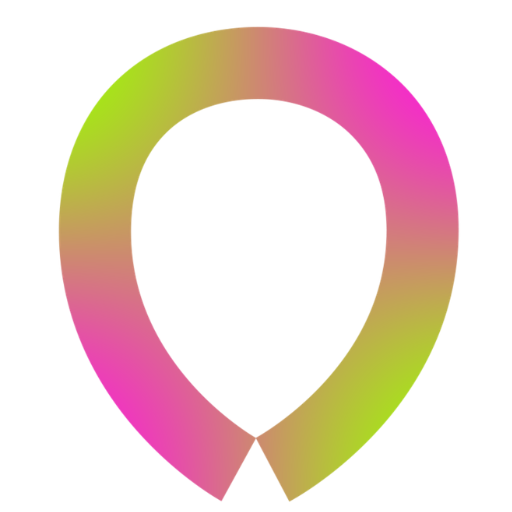
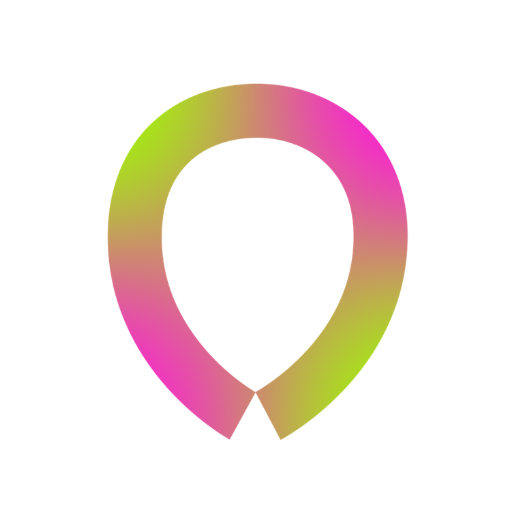
Att

diff --git a/src/App.tsx b/src/App.tsx
@@ -25,6 +25,7 @@ import { EstatisticasPanel } from './components/EstatisticasPanel'
 import { InstallPrompt } from './components/InstallPrompt'
 import { PerfilPublicoModal } from './components/PerfilPublicoModal'
 import { CadastroLocalModerador } from './components/CadastroLocalModerador'
+import { EditarLocalModal } from './components/EditarLocalModal'
 import { useLotacao } from './hooks/useLotacao'
 import { EventosManager } from './components/EventosManager'
 import { AnunciosManager } from './components/AnunciosManager'
@@ -33,7 +34,7 @@ import { LoadingScreen } from './components/LoadingScreen'
 import { PoliticasModal, politicasJaAceitas } from './components/PoliticasModal'
 import { AdBanner } from './components/AdBanner'
 import { NovaSenhaScreen } from './components/NovaSenhaScreen'
-import { Menu, Bell, MapPin, Plus, Camera, Users, X, Flag, Search, Navigation, UserPlus, Calendar, Flame } from 'lucide-react'
+import { Menu, Bell, MapPin, Plus, Camera, Users, X, Flag, Search, Navigation, UserPlus, Calendar, Flame, Pencil } from 'lucide-react'
 import logo from './assets/logo.png'
 
 import { Swiper, SwiperSlide } from 'swiper/react'
@@ -60,6 +61,7 @@ export default function App() {
   const { checkins, resumoPorLocal, meuVotoPorLocal, votar } = useLotacao()
   const [pulsoParaConvidar, setPulsoParaConvidar] = useState<{ id: number; texto: string; lat: number | null; lng: number | null } | null>(null)
   const [localParaEventos, setLocalParaEventos] = useState<{ id: number; nome: string } | null>(null)
+  const [localParaEditar, setLocalParaEditar] = useState<{ id: number; nome_local: string; texto: string; lat: number; lng: number; endereco: string | null } | null>(null)
   const [mostrarCalor, setMostrarCalor] = useState(false)
   const [pulsoParaDenunciar, setPulsoParaDenunciar] = useState<number | null>(null)
   const [perfilPublicoAlvo, setPerfilPublicoAlvo] = useState<string | null>(null)
@@ -94,7 +96,7 @@ export default function App() {
   const [isAmigosOpen, setIsAmigosOpen] = useState(false)
 
   const [filterActive, setFilterActive] = useState('TODOS')
-  const [abaDrawer, setAbaDrawer] = useState<'atividades' | 'onde_ir'>('atividades')
+  const [abaDrawer, setAbaDrawer] = useState<'atividades' | 'onde_ir' | 'eventos'>('atividades')
   const [termoBusca, setTermoBusca] = useState('')
 
   const [isFormOpen, setIsFormOpen] = useState(false)
@@ -487,21 +489,29 @@ export default function App() {
             >
               Onde Ir
             </button>
+            <button
+              onClick={() => setAbaDrawer('eventos')}
+              className={`flex-1 text-[10px] font-mono uppercase tracking-widest py-2.5 ${abaDrawer === 'eventos' ? 'bg-accent text-background' : 'text-accent/50'}`}
+            >
+              Eventos
+            </button>
           </div>
 
-          <div className="px-4 py-2 border-b border-borderRaw/10 flex-shrink-0 relative">
-            <Search size={13} className="absolute left-7 top-1/2 -translate-y-1/2 text-accent/30" />
-            <input
-              type="text"
-              value={termoBusca}
-              onChange={(e) => setTermoBusca(e.target.value)}
-              placeholder={abaDrawer === 'onde_ir' ? 'Buscar local...' : 'Buscar atividade...'}
-              className="w-full bg-background/60 border border-borderRaw rounded-lg py-1.5 pl-7 pr-2 text-[10px] font-mono"
-            />
-          </div>
+          {abaDrawer !== 'eventos' && (
+            <div className="px-4 py-2 border-b border-borderRaw/10 flex-shrink-0 relative">
+              <Search size={13} className="absolute left-7 top-1/2 -translate-y-1/2 text-accent/30" />
+              <input
+                type="text"
+                value={termoBusca}
+                onChange={(e) => setTermoBusca(e.target.value)}
+                placeholder={abaDrawer === 'onde_ir' ? 'Buscar local...' : 'Buscar atividade...'}
+                className="w-full bg-background/60 border border-borderRaw rounded-lg py-1.5 pl-7 pr-2 text-[10px] font-mono"
+              />
+            </div>
+          )}
 
           <div className="p-4 space-y-5 flex-1 overflow-y-auto">
-            {listaAtual.length === 0 && (
+            {abaDrawer !== 'eventos' && listaAtual.length === 0 && (
               <p className="text-[10px] text-accent/30 text-center pt-4">
                 {termoBusca.trim()
                   ? 'Nenhum resultado encontrado.'
@@ -590,6 +600,15 @@ export default function App() {
                   </button>
                 )}
 
+                {isAdmin && (
+                  <button
+                    onClick={() => setLocalParaEditar({ id: relato.id, nome_local: relato.nome_local, texto: relato.texto, lat: relato.lat, lng: relato.lng, endereco: relato.endereco })}
+                    className="text-[9px] font-mono text-accent/40 hover:text-accent flex items-center gap-1 mt-1"
+                  >
+                    <Pencil size={11} /> Editar local
+                  </button>
+                )}
+
                 {isAdmin && <button onClick={() => deletarRelato(relato.id)} className="text-[9px] text-red-500">[DELETAR]</button>}
               </div>
             ))}
@@ -639,9 +658,62 @@ export default function App() {
                 {isAdmin && <button onClick={() => deletarRelato(relato.id)} className="text-[9px] text-red-500 ml-2">[DELETAR]</button>}
               </div>
             ))}
+
+            {abaDrawer === 'eventos' && (
+              <>
+                <button
+                  onClick={() => (usuarioLogado ? setIsEventoModalOpen(true) : setIsLoginOpen(true))}
+                  className="w-full flex items-center justify-center gap-2 text-[10px] font-mono uppercase tracking-widest py-2.5 rounded-lg bg-accent text-background font-bold"
+                >
+                  <Plus size={14} /> Criar evento
+                </button>
+
+                {eventosGerais.length === 0 && (
+                  <p className="text-[10px] text-accent/30 text-center pt-4">Nenhum evento marcado ainda. Seja o primeiro a divulgar um!</p>
+                )}
+
+                {eventosGerais.map((evento) => (
+                  <div key={evento.id} className="rounded-xl border border-borderRaw/20 bg-background/40 p-3 space-y-1.5">
+                    {evento.image_url && (
+                      <img src={evento.image_url} alt="" className="w-full max-h-40 object-cover rounded-lg" />
+                    )}
+                    <div className="flex items-start justify-between gap-2">
+                      <div>
+                        <span className="text-[8px] font-mono text-accent/40 uppercase tracking-widest">{evento.categoria}</span>
+                        <h2 className="text-xs font-mono font-bold">{evento.titulo}</h2>
+                        <span className="text-[10px] text-accent/60">
+                          {new Date(evento.data_hora).toLocaleString('pt-BR', { day: '2-digit', month: '2-digit', hour: '2-digit', minute: '2-digit' })}
+                        </span>
+                      </div>
+                      <div className="flex items-center gap-2 flex-shrink-0">
+                        <button onClick={() => irParaNoMapa(evento.lat, evento.lng)} className="text-accent/50 hover:text-accent">
+                          <MapPin size={14} />
+                        </button>
+                        {(isAdmin || perfil?.id === evento.user_id) && (
+                          <button onClick={() => removerEvento(evento.id)} className="text-accent/40 hover:text-red-500 text-[9px]">[DEL]</button>
+                        )}
+                      </div>
+                    </div>
+                    {evento.descricao && <p className="text-xs text-accent/70">{evento.descricao}</p>}
+                    {evento.link_ingresso && (
+                      <a href={evento.link_ingresso} target="_blank" rel="noopener noreferrer" className="inline-block text-[10px] font-mono uppercase text-background bg-accent rounded-lg px-3 py-1.5 mt-1">
+                        Comprar ingresso
+                      </a>
+                    )}
+                  </div>
+                ))}
+              </>
+            )}
           </div>
         </div>
       </div>
+
+      {isEventoModalOpen && (
+        <EventoModal
+          onClose={() => setIsEventoModalOpen(false)}
+          onPublicado={() => { setIsEventoModalOpen(false); recarregarEventosGerais() }}
+        />
+      )}
 
       {isFormOpen && (
         <div className="fixed inset-0 bg-background/85 backdrop-blur-md z-[9999] flex items-center justify-center p-4">
@@ -787,6 +859,14 @@ export default function App() {
 
       {perfilPublicoAlvo && (
         <PerfilPublicoModal userId={perfilPublicoAlvo} onClose={() => setPerfilPublicoAlvo(null)} />
+      )}
+
+      {localParaEditar && (
+        <EditarLocalModal
+          local={localParaEditar}
+          onClose={() => setLocalParaEditar(null)}
+          onSalvo={() => { setLocalParaEditar(null); buscarRelatos() }}
+        />
       )}
     </div>
   )

diff --git a/src/components/EditarLocalModal.tsx b/src/components/EditarLocalModal.tsx
@@ -1,0 +1,78 @@
+import React, { useState } from 'react'
+import { supabase } from '../supabase'
+import { X } from 'lucide-react'
+import { MapaLocalPicker } from './MapaLocalPicker'
+
+type LocalParaEditar = {
+  id: number
+  nome_local: string
+  texto: string
+  lat: number
+  lng: number
+  endereco: string | null
+}
+
+export function EditarLocalModal({
+  local,
+  onClose,
+  onSalvo
+}: {
+  local: LocalParaEditar
+  onClose: () => void
+  onSalvo: () => void
+}) {
+  const [nome, setNome] = useState(local.nome_local || '')
+  const [descricao, setDescricao] = useState(local.texto || '')
+  const [endereco, setEndereco] = useState(local.endereco || '')
+  const [lat, setLat] = useState<number | null>(local.lat)
+  const [lng, setLng] = useState<number | null>(local.lng)
+  const [erro, setErro] = useState<string | null>(null)
+  const [salvando, setSalvando] = useState(false)
+
+  const salvar = async () => {
+    if (!nome.trim()) { setErro('Preencha o nome do local.'); return }
+    if (lat === null || lng === null) { setErro('Posicione o pino no mapa.'); return }
+
+    setErro(null)
+    setSalvando(true)
+
+    const { error } = await supabase
+      .from('pulsos')
+      .update({
+        nome_local: nome.trim().toUpperCase(),
+        texto: descricao.trim(),
+        endereco: endereco.trim() || null,
+        lat,
+        lng
+      })
+      .eq('id', local.id)
+
+    setSalvando(false)
+
+    if (error) setErro(error.message)
+    else onSalvo()
+  }
+
+  return (
+    <div className="fixed inset-0 bg-background/90 backdrop-blur-md z-[9999] flex items-center justify-center p-4">
+      <div className="w-full max-w-md bg-surface border border-amber-500/40 rounded-2xl p-6 space-y-3 shadow-2xl max-h-[85vh] overflow-y-auto">
+        <div className="flex justify-between">
+          <span className="text-[10px] text-amber-500">EDITAR LOCAL</span>
+          <button type="button" onClick={onClose} className="text-accent/40 hover:text-accent"><X size={16} /></button>
+        </div>
+
+        {erro && <div className="text-[10px] text-red-400">{erro}</div>}
+
+        <input type="text" value={nome} onChange={(e) => setNome(e.target.value)} placeholder="Nome do Local" className="w-full bg-background border border-borderRaw rounded-lg p-2 text-xs" />
+        <input type="text" value={endereco} onChange={(e) => setEndereco(e.target.value)} placeholder="Endereço" className="w-full bg-background border border-borderRaw rounded-lg p-2 text-xs" />
+        <textarea value={descricao} onChange={(e) => setDescricao(e.target.value)} placeholder="Descrição (opcional)" className="w-full bg-background border border-borderRaw rounded-lg p-2 text-xs h-20" />
+
+        <MapaLocalPicker lat={lat} lng={lng} onChange={(novoLat, novoLng) => { setLat(novoLat); setLng(novoLng) }} />
+
+        <button type="button" onClick={salvar} disabled={salvando} className="w-full bg-amber-500 text-background py-3 text-xs font-bold uppercase rounded-lg">
+          {salvando ? 'SALVANDO...' : 'SALVAR ALTERAÇÕES'}
+        </button>
+      </div>
+    </div>
+  )
+}

diff --git a/src/components/PerfilScreen.tsx b/src/components/PerfilScreen.tsx
@@ -3,6 +3,8 @@ import { useAuth } from '../hooks/useAuth'
 import { useEmpresa } from '../hooks/useEmpresa'
 import { useAmizades } from '../hooks/useAmizades'
 import { X, Camera, Pencil, Check, Users } from 'lucide-react'
+import { AtributosEstabelecimento } from './AtributosEstabelecimento'
+import type { Atributos } from './AtributosEstabelecimento'
 
 export function PerfilScreen({ onClose }: { onClose: () => void }) {
   const { perfil, enviarAvatar, atualizarBio, atualizarApelido } = useAuth()
@@ -25,6 +27,8 @@ export function PerfilScreen({ onClose }: { onClose: () => void }) {
   const [instagram, setInstagram] = useState('')
   const [site, setSite] = useState('')
   const [horario, setHorario] = useState('')
+  const [endereco, setEndereco] = useState('')
+  const [atributos, setAtributos] = useState<Atributos>({})
   const [salvandoEmpresa, setSalvandoEmpresa] = useState(false)
 
   useEffect(() => { setBio(perfil?.bio || '') }, [perfil?.bio])
@@ -35,6 +39,8 @@ export function PerfilScreen({ onClose }: { onClose: () => void }) {
       setInstagram(empresa.instagram || '')
       setSite(empresa.site || '')
       setHorario(empresa.horario_funcionamento || '')
+      setEndereco(empresa.endereco || '')
+      setAtributos(empresa.atributos || {})
     }
   }, [empresa])
 
@@ -82,7 +88,9 @@ export function PerfilScreen({ onClose }: { onClose: () => void }) {
       telefone: telefone.trim() || null,
       instagram: instagram.trim() || null,
       site: site.trim() || null,
-      horario_funcionamento: horario.trim() || null
+      horario_funcionamento: horario.trim() || null,
+      endereco: endereco.trim() || null,
+      atributos
     })
     setSalvandoEmpresa(false)
     if (error) avisar(error.message, true)
@@ -174,6 +182,10 @@ export function PerfilScreen({ onClose }: { onClose: () => void }) {
             <input type="text" value={instagram} onChange={(e) => setInstagram(e.target.value)} placeholder="@ do Instagram" className="w-full bg-background border border-borderRaw rounded-lg p-2 text-xs" />
             <input type="text" value={site} onChange={(e) => setSite(e.target.value)} placeholder="Site (opcional)" className="w-full bg-background border border-borderRaw rounded-lg p-2 text-xs" />
             <input type="text" value={horario} onChange={(e) => setHorario(e.target.value)} placeholder="Horário de funcionamento" className="w-full bg-background border border-borderRaw rounded-lg p-2 text-xs" />
+            <input type="text" value={endereco} onChange={(e) => setEndereco(e.target.value)} placeholder="Endereço" className="w-full bg-background border border-borderRaw rounded-lg p-2 text-xs" />
+
+            <AtributosEstabelecimento atributos={atributos} onChange={setAtributos} />
+
             <button onClick={salvarEmpresa} disabled={salvandoEmpresa} className="w-full bg-amber-500 text-background font-bold py-2 uppercase rounded-lg text-[10px]">
               {salvandoEmpresa ? 'SALVANDO...' : 'SALVAR DADOS DO ESTABELECIMENTO'}
             </button>